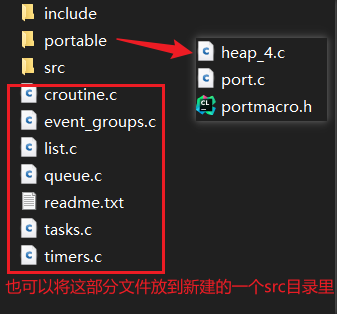
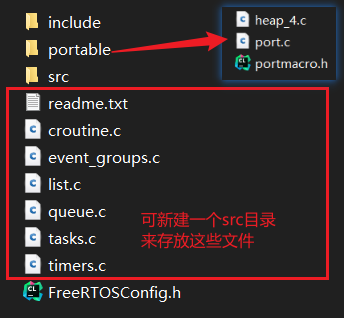
freertos keil&iar

Changed region(s): [[0.0, 0.0, 1.0, 1.0]]

diff --git a/B-51&STM32/FreeRTOS.md b/B-51&STM32/FreeRTOS.md
@@ -14,7 +14,7 @@ FreeRTOS：面向微控制器和小型微处理器的实时操作系统。
 
 为何发展处实时操作系统，相对于轮询来说，有什么优缺点呢？
 
-# 文件下载和说明
+# 下载
 
 FreeRTOS的源代码托管网址：[FreeRTOS Real Time Kernel (RTOS) - Browse /FreeRTOS at SourceForge.net](https://sourceforge.net/projects/freertos/files/FreeRTOS/)
 
@@ -48,13 +48,13 @@ FreeRTOS的源代码托管网址：[FreeRTOS Real Time Kernel (RTOS) - Browse /F
 - port.c：里面的内容是由 FreeRTOS 官方的技术人员为 Cortex-M3 内核的处理器写的接口文件，里面核心的上下文切换代码是由汇编语言编写而成。
 - portmacro.h： 则是 port.c 文件对应的头文件，主要是一些数据类型和宏定义
 
-此外还需要一个FreeRTOS的配置头文件，该文件见Demo目录里的STM32相关的demo中文件名为`FreeRTOSConfig.h`的文件。
+此外还需要一个FreeRTOS的配置头文件，该文件见Demo目录里的STM32相关的demo目录中文件名为`FreeRTOSConfig.h`的文件。
 
 **3、总结：**
 
 使用官方的FreeRTOS的移植时，涉及的文件如下：
 
-1. FreeRTOS源代码文件：include目录下的文件和Source目录下的直接子文件。
+1. FreeRTOS源代码文件：include目录下的头文件和Source目录下的子文件。
 2. 软件、硬件之间的接口文件：如果是STM32，那就是portable目录下的RVDS目录下的文件。
 3. 内存管理文件：MemMang目录下的文件，一般使用heap_4.c即可。
 4. 配置文件：`FreeRTOSConfig.h`。
@@ -63,29 +63,36 @@ FreeRTOS的源代码托管网址：[FreeRTOS Real Time Kernel (RTOS) - Browse /F
 
 ![](imgFreeRTOS/1.目录结构和文件.png)
 
+protable内的文件，对于不同平台是不同的，对于Keil来则是RVDS目录里的，对于IAR则是IAR目录里的。~~`FreeRTOSConfig.h`，也是如此，IAR下则找到IAR后缀的demo目录里的，Keil下则找到Keil后缀的demo目录里的。~~
+
 # 移植FreeRTOS
 
-将FreeRTOS添加进STM32F103C8的工程里，分为两步：
+将FreeRTOS添加进STM32F103C8的工程里，总的来说可以分为两步：
 
-1. 创建好STM32F103C8的工程：创建项目，创建好组并加载好相关文件，再搞好工程配置（）。
+1. 创建好STM32F103C8的工程：创建项目，创建好组并加载好相关文件，再搞好工程配置（Debug中选用ST-Link Debug并设置其Flash Download为Reset and Run；配好C/C++的include path、宏定义）。
 2. 移植FreeRTOS：将涉及的文件加入到项目组里，修改好一些文件，再搞好项目的工程配置。
 
 ## Keil
 
-使用Keil来进行开发。
+使用Keil开发工具来进行开发。
 
 1、创建好工程项目：STM32F103C8的工程创建过程说明见`STM32.md`。
 
 2、移植FreeRTOS：
 
-- 工程中创建好FreeRTOS/src、FreeRTOS/portable组，将相关文件添加进去。
+- 工程中创建好FreeRTOS/src、FreeRTOS/portable组，将相关文件添加进去。（组命名，看你）
+
+  FreeRTOS/src：将源码中Source目录下的直接子文件都放进去。
+  FreeRTOS/portable：heap_4.c、port.c、portmacro.h。
 - 将`FreeRTOSConfig.h`文件添加到User组里，需要修改该文件。
+
+  该配置文件一般放在User里。
 - 编译的时候需要为FreeRTOS源文件指定头文件的路径，不然编译会报错，因此需要在C/C++的 include path 添加FreeRTOS目录下的include、portable目录。
 - 修改`stm32f10x_it.c`文件。
 
 > FreeRTOSConfig.h 是直接从 demo 文件夹中某些demo目录下面拷贝过来的，该头文件对裁剪整个 FreeRTOS 所需的功能的宏均做了定义，有些宏定义被使能，有些宏定义被失能，一开始我们只需要配置最简单的功能即可。要想随心所欲的配置 FreeRTOS 的功能，我们必须对这些宏定义的功能有所掌握。野火修改过的`FreeRTOSConfig.h`文件，里面添加了一些中文注释，并且把相关的头文件进行分类，方便查找宏定义和阅读，见《FreeRTOS 内核实现与应用开发实战指南》。
 
-修改`FreeRTOSConfig.h`，在末尾添加以下内容：
+修改`FreeRTOSConfig.h`，在末尾的`#endif`前添加以下内容：
 
 ```c
 #define xPortPendSVHandler 	PendSV_Handler
@@ -112,7 +119,7 @@ void SysTick_Handler(void)
 
 ```c
 #include "stm32f10x.h"                  // Device header
-#include "Delay.h"
+#include "OLED.h"
 #include "FreeRTOS.h"
 #include "task.h"
 #include "portmacro.h"
@@ -164,6 +171,8 @@ void led_task2(void *arg)
 int main(void) 
 {
 	led_init();
+	OLED_Init();
+	OLED_ShowString(1,1,"FreeRTOSv9.0.0");
 	xTaskCreate(led_task0, "led_task0", 1024, NULL, 20, &led_task_handle0);
 	xTaskCreate(led_task1, "led_task1", 1024, NULL, 20, &led_task_handle1);
 	xTaskCreate(led_task2, "led_task2", 1024, NULL, 20, &led_task_handle2);
@@ -172,13 +181,182 @@ int main(void)
 }
 ```
 
+## IAR
+
+使用IAR开发工具来进行开发。同理：
+
+1. 创建STM32F103C8的工程项目。
+2. 移植FreeRTOS。
+
+### 创建STM32工程
+
+**0、新建工作空间，并创建项目。**
+
+先创建一个目录——`IARworkspaces`，用于当作工作空间，在该目录下创建`FreeRTOSDemo`目录，`FreeRTOSDemo`目录里创建好以下文件夹：
+
+![](imgFreeRTOS/2.目录.png)
+
+将需要的FreeRTOS支持文件、STM32103C8固件库文件放进这些目录里。（FreeRTOS目录里放FreeRTOS支持文件；Hardware用于放一些驱动代码和头文件；Libraries用于放STM32的外设库文件；Start放启动文件和内核文件；User放`main.c`、`FreeRTOSConfig.h`、`stm32f10x_conf.h`、`stm32f10x_it.c`、`stm32f10x_it.h`；Project目录用于存放一会创建的IAR工程文件；Config，存放固件库STM32F10x_StdPeriph_Lib_V3.5.0\Project\STM32F10x_StdPeriph_Template\EWARM 文件夹里的所有.icf文件。）
+
+做好上面这些后，就打开IAR，选择 File → New Workspace 建立好工作空间，然后通过 File → Save Workspase As...  保存到Project目录下，名字就设为项目名称吧——FreeRTOSDemo；接着Project → Create New Project，选择Empty project，再点OK，选择保存路径仍然是刚才新建的FreeRTOSDemo目录下的Project文件夹里，保存名字也是FreeRTOSDemo。
+
+**1、移植固件库：添加组，然后再添加源文件。**
+
+添加组：（FreeRTOS、Hardware、Libraries、Start、System、User，六个组，由你自己决定，知道组里有啥就行）
+
+![](imgFreeRTOS/3.添加组和文件.png)
+
+添加源文件：操作和上图类似，只不过是在组上面右键，然后选择添加文件。
+
+**2、工程配置。**
+
+先选中`FreeRTOSDemo-Debug`，点击右键选择Options（从Project → Options打开也可）的打开配置面板：
+
+①在General Options → Target → Device 选好使用的芯片型号（STM32F103C8），然后 General Options → Library Configuration 里勾上Use CMSIS5.7。（注意，勾选了`Use CMSIS5.7`，Start文件夹中的`core_cm3.h`、`core_cm3.c`就得去掉，表示不使用STM32提供的core；如果不勾选，使用下载的固件库的`core_cm3.c`和`core_cm3.h`，直接编译将会出现一个Core_cm3版本的问题，错误的原因是因为新版本CMSIS的intrinsics.h等文件与之前的版本不兼容，而解决方法就是注释掉`core_cm3.h`里的93行的`#include <intrinsics.h>`。）
+
+②然后，C/C++Compiler → Preprocessor里，配置头文件目录（为了在include时不用加上路径）和定义全局宏，配置分别如下：
+
+```
+$PROJ_DIR$\..\
+$PROJ_DIR$\..\Libraries
+$PROJ_DIR$\..\Start
+$PROJ_DIR$\..\Hardware
+$PROJ_DIR$\..\System
+$PROJ_DIR$\..\User
+$PROJ_DIR$\..\FreeRTOS\include
+$PROJ_DIR$\..\FreeRTOS\portable
+```
+
+```
+USE_STDPERIPH_DRIVER
+STM32F10X_MD
+```
+
+③接着，Linker里勾上`Override default`，并且设置为`$PROJ_DIR$\..\Config\stm32f10x_flash.icf`，选择到stm32f10x_flash.icf文件。
+
+④最后，配置Debugger：Debugger → Setup 里的Driver选择使用的调试器（我是ST-LINK），再在Download里将`Verify download`勾上。
+
+⑤点击OK，然后点击make进行编译，无错误无警告即可。
 
 
 
+### 移植FreeRTOS
 
+①为FreeRTOS添加src组、protable组，添加好文件：
 
+![](imgFreeRTOS/4.iarFreeRTOS.png)
 
+②User组里添加好`FreeRTOSConfig.h`文件，并在末尾的`#endif`前添加以下内容：
 
+```c
+#define xPortPendSVHandler 	PendSV_Handler
+#define vPortSVCHandler 	SVC_Handler
+#define xPortSysTickHandler	SysTick_Handler
+```
+
+③在stm32f10x_it.c文件中找到以下三个函数并注释掉：
+
+```c
+void SVC_Handler(void)
+{
+}
+void PendSV_Handler(void)
+{
+}
+void SysTick_Handler(void)
+{
+}
+```
+
+④修改startup_stm32f10x_xd.s文件：通过编译软件编译后另存为另一个文件，然后使用这个文件替代掉原来的。修改内容如下：
+
+```c
+// 找到Reset_Handler这里，最后的SECTION修改 SECTION .text:CODE:REORDER:NOROOT(1)
+Reset_Handler
+        LDR     R0, =SystemInit
+        BLX     R0
+        LDR     R0, =__iar_program_start
+        BX      R0
+
+        PUBWEAK NMI_Handler
+        SECTION .text:CODE:REORDER:NOROOT(1)
+```
+
+⑤错误解决：
+
+```
+Error[2]: Failed to open #include file 'FreeRTOSConfig.h' xxx\portasm.s
+```
+
+解决办法：工程名右键 → Options... → Assembler → Preprocesser，在`Additional include directories`添加`FreeRTOSConfig.h`所在目录 —— `$PROJ_DIR$\..\User`。
+
+⑥编译，无错误，无警告。
+
+⑦测试，main.c，和Keil下测试代码的一致：
+
+```c
+#include "stm32f10x.h"                  // Device header
+#include "OLED.h"
+#include "FreeRTOS.h"
+#include "task.h"
+#include "portmacro.h"
+
+static TaskHandle_t led_task_handle0 = NULL;
+static TaskHandle_t led_task_handle1 = NULL;
+static TaskHandle_t led_task_handle2 = NULL;
+
+void led_init(void)
+{
+	RCC_APB2PeriphClockCmd(RCC_APB2Periph_GPIOA, ENABLE);
+	
+	GPIO_InitTypeDef GPIO_InitStructure;
+	GPIO_InitStructure.GPIO_Mode = GPIO_Mode_Out_PP;
+	GPIO_InitStructure.GPIO_Pin = GPIO_Pin_0 | GPIO_Pin_2 | GPIO_Pin_4;
+	GPIO_InitStructure.GPIO_Speed =  GPIO_Speed_50MHz;
+	GPIO_Init(GPIOA, &GPIO_InitStructure);
+}
+void led_task0(void *arg)
+{
+	while(1)                            
+	{
+		GPIO_SetBits(GPIOA, GPIO_Pin_0);
+		vTaskDelay(500/portTICK_PERIOD_MS);
+		GPIO_ResetBits(GPIOA, GPIO_Pin_0);
+		vTaskDelay(500/portTICK_PERIOD_MS);
+	}
+}
+void led_task1(void *arg)
+{
+	while(1)                            
+	{
+		GPIO_SetBits(GPIOA, GPIO_Pin_2);
+		vTaskDelay(1000/portTICK_PERIOD_MS);
+		GPIO_ResetBits(GPIOA, GPIO_Pin_2);
+		vTaskDelay(1000/portTICK_PERIOD_MS);
+	}
+}
+void led_task2(void *arg)
+{
+	while(1)                            
+	{
+		GPIO_SetBits(GPIOA, GPIO_Pin_4);
+		vTaskDelay(2000/portTICK_PERIOD_MS);
+		GPIO_ResetBits(GPIOA, GPIO_Pin_4);
+		vTaskDelay(2000/portTICK_PERIOD_MS);
+	}
+}
+int main(void) 
+{
+	led_init();
+	OLED_Init();
+	OLED_ShowString(1,1,"FreeRTOSv9.0.0");
+	xTaskCreate(led_task0, "led_task0", 1024, NULL, 20, &led_task_handle0);
+	xTaskCreate(led_task1, "led_task1", 1024, NULL, 20, &led_task_handle1);
+	xTaskCreate(led_task2, "led_task2", 1024, NULL, 20, &led_task_handle2);
+	vTaskStartScheduler();
+	while(1);
+}
+```
 
 
 

diff --git a/B-51&STM32/STM32.md b/B-51&STM32/STM32.md
@@ -4788,10 +4788,6 @@ CPU的时钟信号来源：
 > 版权声明：本文为CSDN博主「魏波.」的原创文章，遵循CC 4.0 BY-SA版权协议，转载请附上原文出处链接及本声明。
 > 原文链接：https://blog.csdn.net/weibo1230123/article/details/83106141
 
-# RTOS
-
-
-
 
 
 
